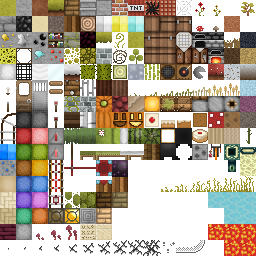
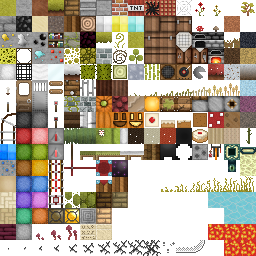
Add biome material variety

Changed region(s): [[0.5, 0.5, 0.6875, 0.5625]]

diff --git a/src/delve/world/WorldChunk.java b/src/delve/world/WorldChunk.java
@@ -1020,14 +1020,14 @@ public class WorldChunk implements Serializable, Block.SolidityLookup {
             return patch > 0.62f && roll < 38 ? Block.SANDSTONE : base;
         }
         if (biomeType == EarthBiome.WETLAND) {
-            return patch > 0.68f && roll < 28 ? Block.GRAVEL : base;
+            return patch > 0.58f && roll < 34 ? Block.PEAT : base;
         }
         if (biomeType == EarthBiome.TUNDRA || biomeType == EarthBiome.BOREAL_FOREST) {
             return patch > 0.70f && roll < 26 ? Block.GRAVEL : base;
         }
         if (biomeType == EarthBiome.SAVANNA || biomeType == EarthBiome.SHRUBLAND) {
             return patch > 0.58f && roll < (28 + (int) (ruggedness * 24f))
-                    ? Block.GRAVEL : base;
+                    ? Block.RED_CLAY : base;
         }
         if (biomeType == EarthBiome.ALPINE) {
             return patch > 0.56f && roll < (28 + (int) (ruggedness * 30f))
@@ -1036,10 +1036,10 @@ public class WorldChunk implements Serializable, Block.SolidityLookup {
         if (biomeType == EarthBiome.TEMPERATE_FOREST
                 || biomeType == EarthBiome.TROPICAL_RAINFOREST) {
             return patch > 0.68f && roll < 24 && wetland < 0.60f
-                    ? Block.MOSSY_COBBLESTONE : base;
+                    ? Block.PEAT : base;
         }
         return patch > 0.62f && roll < (22 + (int) (ruggedness * 20f))
-                ? Block.GRAVEL : base;
+                ? Block.LIMESTONE : base;
     }
 
     private static int fillerTypeFor(int surface, BiomeBlend biome, int y, int height,
@@ -1056,6 +1056,15 @@ public class WorldChunk implements Serializable, Block.SolidityLookup {
         }
         if (surface == Block.GRAVEL) {
             return depth >= 3 ? Block.STONE : Block.GRAVEL;
+        }
+        if (surface == Block.PEAT) {
+            return depth >= 3 ? Block.DIRT : Block.PEAT;
+        }
+        if (surface == Block.LIMESTONE) {
+            return depth >= 3 ? Block.STONE : Block.LIMESTONE;
+        }
+        if (surface == Block.RED_CLAY) {
+            return depth >= 3 ? Block.DIRT : Block.RED_CLAY;
         }
         if (surface == Block.CLAY) {
             return Block.CLAY;
@@ -1131,7 +1140,8 @@ public class WorldChunk implements Serializable, Block.SolidityLookup {
                     continue;
                 }
                 if (surface != Block.GRASS && surface != Block.CLAY && surface != Block.SNOW
-                        && surface != Block.DIRT && surface != Block.MUD && surface != Block.SLUSH) {
+                        && surface != Block.DIRT && surface != Block.MUD && surface != Block.SLUSH
+                        && surface != Block.PEAT && surface != Block.RED_CLAY) {
                     continue;
                 }
                 if (data[x][y + 1][z] != Block.AIR) {
@@ -1232,7 +1242,8 @@ public class WorldChunk implements Serializable, Block.SolidityLookup {
                 if (data[x][y][z] != surface) {
                     continue;
                 }
-                if ((surface != Block.GRASS && surface != Block.DIRT && surface != Block.MUD)
+                if ((surface != Block.GRASS && surface != Block.DIRT && surface != Block.MUD
+                        && surface != Block.PEAT && surface != Block.RED_CLAY)
                         || y <= SEA_LEVEL + 1 || y >= sizeY - 10) {
                     continue;
                 }

diff --git a/src/delve/world/Block.java b/src/delve/world/Block.java
@@ -85,7 +85,8 @@ public class Block implements Serializable {
         }
         if (type == DIRT || type == MUD || type == SAND || type == RED_SAND
                 || type == CLAY || type == GRAVEL || type == SANDSTONE
-                || type == RED_SANDSTONE) {
+                || type == RED_SANDSTONE || type == PEAT || type == LIMESTONE
+                || type == RED_CLAY) {
             return TINT_GROUND;
         }
         return TINT_NONE;
@@ -171,6 +172,12 @@ public class Block implements Serializable {
         new float[]{0.77f, 0.66f, 0.32f, 1.0f},
         //37 - Frost boulder
         new float[]{0.66f, 0.82f, 0.89f, 1.0f},
+        //38 - Peat
+        new float[]{0.20f, 0.15f, 0.10f, 1.0f},
+        //39 - Limestone
+        new float[]{0.72f, 0.70f, 0.61f, 1.0f},
+        //40 - Red clay
+        new float[]{0.62f, 0.25f, 0.16f, 1.0f},
     };
 
     public static final int AIR = 0, GRASS = 1, WATER = 2, SAND = 3, SNOW = 4,
@@ -182,6 +189,7 @@ public class Block implements Serializable {
             BROWN_GRASS = 27, MUD = 28, SLUSH = 29, BASALT = 30,
             SULFUR_STONE = 31, FROST_ICE = 32, THOLIN = 33, VOLCANIC_ASH = 34,
             BASALT_BOULDER = 35, SULFUR_BOULDER = 36, FROST_BOULDER = 37;
+    public static final int PEAT = 38, LIMESTONE = 39, RED_CLAY = 40;
 
     /** Human readable names, indexed by block type. */
     public static final String[] BLOCK_NAMES = {
@@ -191,7 +199,7 @@ public class Block implements Serializable {
         "Granite", "Mossy Cobblestone", "Deepslate", "Tall Grass", "Flower",
         "Mushroom", "Brown Grass", "Mud", "Slush", "Basalt", "Sulfur Stone",
         "Frost Ice", "Tholin", "Volcanic Ash", "Basalt Boulder",
-        "Sulfur Boulder", "Frost Boulder",
+        "Sulfur Boulder", "Frost Boulder", "Peat", "Limestone", "Red Clay",
     };
 
     /** Types a player may place, in block-picker order. */
@@ -201,7 +209,7 @@ public class Block implements Serializable {
         RED_SANDSTONE, ANDESITE, DIORITE, GRANITE, MOSSY_COBBLESTONE, DEEPSLATE,
         TALL_GRASS, FLOWER, MUSHROOM, BROWN_GRASS, MUD, SLUSH,
         BASALT, SULFUR_STONE, FROST_ICE, THOLIN, VOLCANIC_ASH,
-        BASALT_BOULDER, SULFUR_BOULDER, FROST_BOULDER,
+        BASALT_BOULDER, SULFUR_BOULDER, FROST_BOULDER, PEAT, LIMESTONE, RED_CLAY,
     };
 
     public static String nameOf(int type) {
@@ -254,6 +262,9 @@ public class Block implements Serializable {
         {15, 2, 15, 2, 15, 2},       //35 basalt boulder
         {15, 3, 15, 3, 15, 3},       //36 sulfur boulder
         {15, 5, 15, 5, 15, 5},       //37 frost boulder
+        {8, 8, 8, 8, 8, 8},          //38 peat
+        {9, 8, 9, 8, 9, 8},          //39 limestone
+        {10, 8, 10, 8, 10, 8},       //40 red clay
     };
 
     /** Atlas tiles per row/column, exposed so the HUD can slice block icons. */

diff --git a/test/java/delve/world/BiomeSurfaceVariationTest.java b/test/java/delve/world/BiomeSurfaceVariationTest.java
@@ -38,19 +38,19 @@ class BiomeSurfaceVariationTest {
     void biomePatchRulesProduceVisibleDifferences() {
         PerlinNoiseGenerator.reseed(91423L);
         boolean foundDesertRock = false;
-        boolean foundForestStone = false;
-        for (int x = -256; x < 256 && (!foundDesertRock || !foundForestStone); x++) {
-            for (int z = -256; z < 256 && (!foundDesertRock || !foundForestStone); z++) {
+        boolean foundForestPeat = false;
+        for (int x = -256; x < 256 && (!foundDesertRock || !foundForestPeat); x++) {
+            for (int z = -256; z < 256 && (!foundDesertRock || !foundForestPeat); z++) {
                 int desert = WorldChunk.earthSurfacePatch(
                         Block.SAND, EarthBiome.HOT_DESERT, 0.55f, 0.05f, x, z);
                 int forest = WorldChunk.earthSurfacePatch(
                         Block.GRASS, EarthBiome.TEMPERATE_FOREST, 0.55f, 0.20f, x, z);
                 foundDesertRock |= desert == Block.SANDSTONE;
-                foundForestStone |= forest == Block.MOSSY_COBBLESTONE;
+                foundForestPeat |= forest == Block.PEAT;
             }
         }
 
         assertNotEquals(false, foundDesertRock);
-        assertNotEquals(false, foundForestStone);
+        assertNotEquals(false, foundForestPeat);
     }
 }
